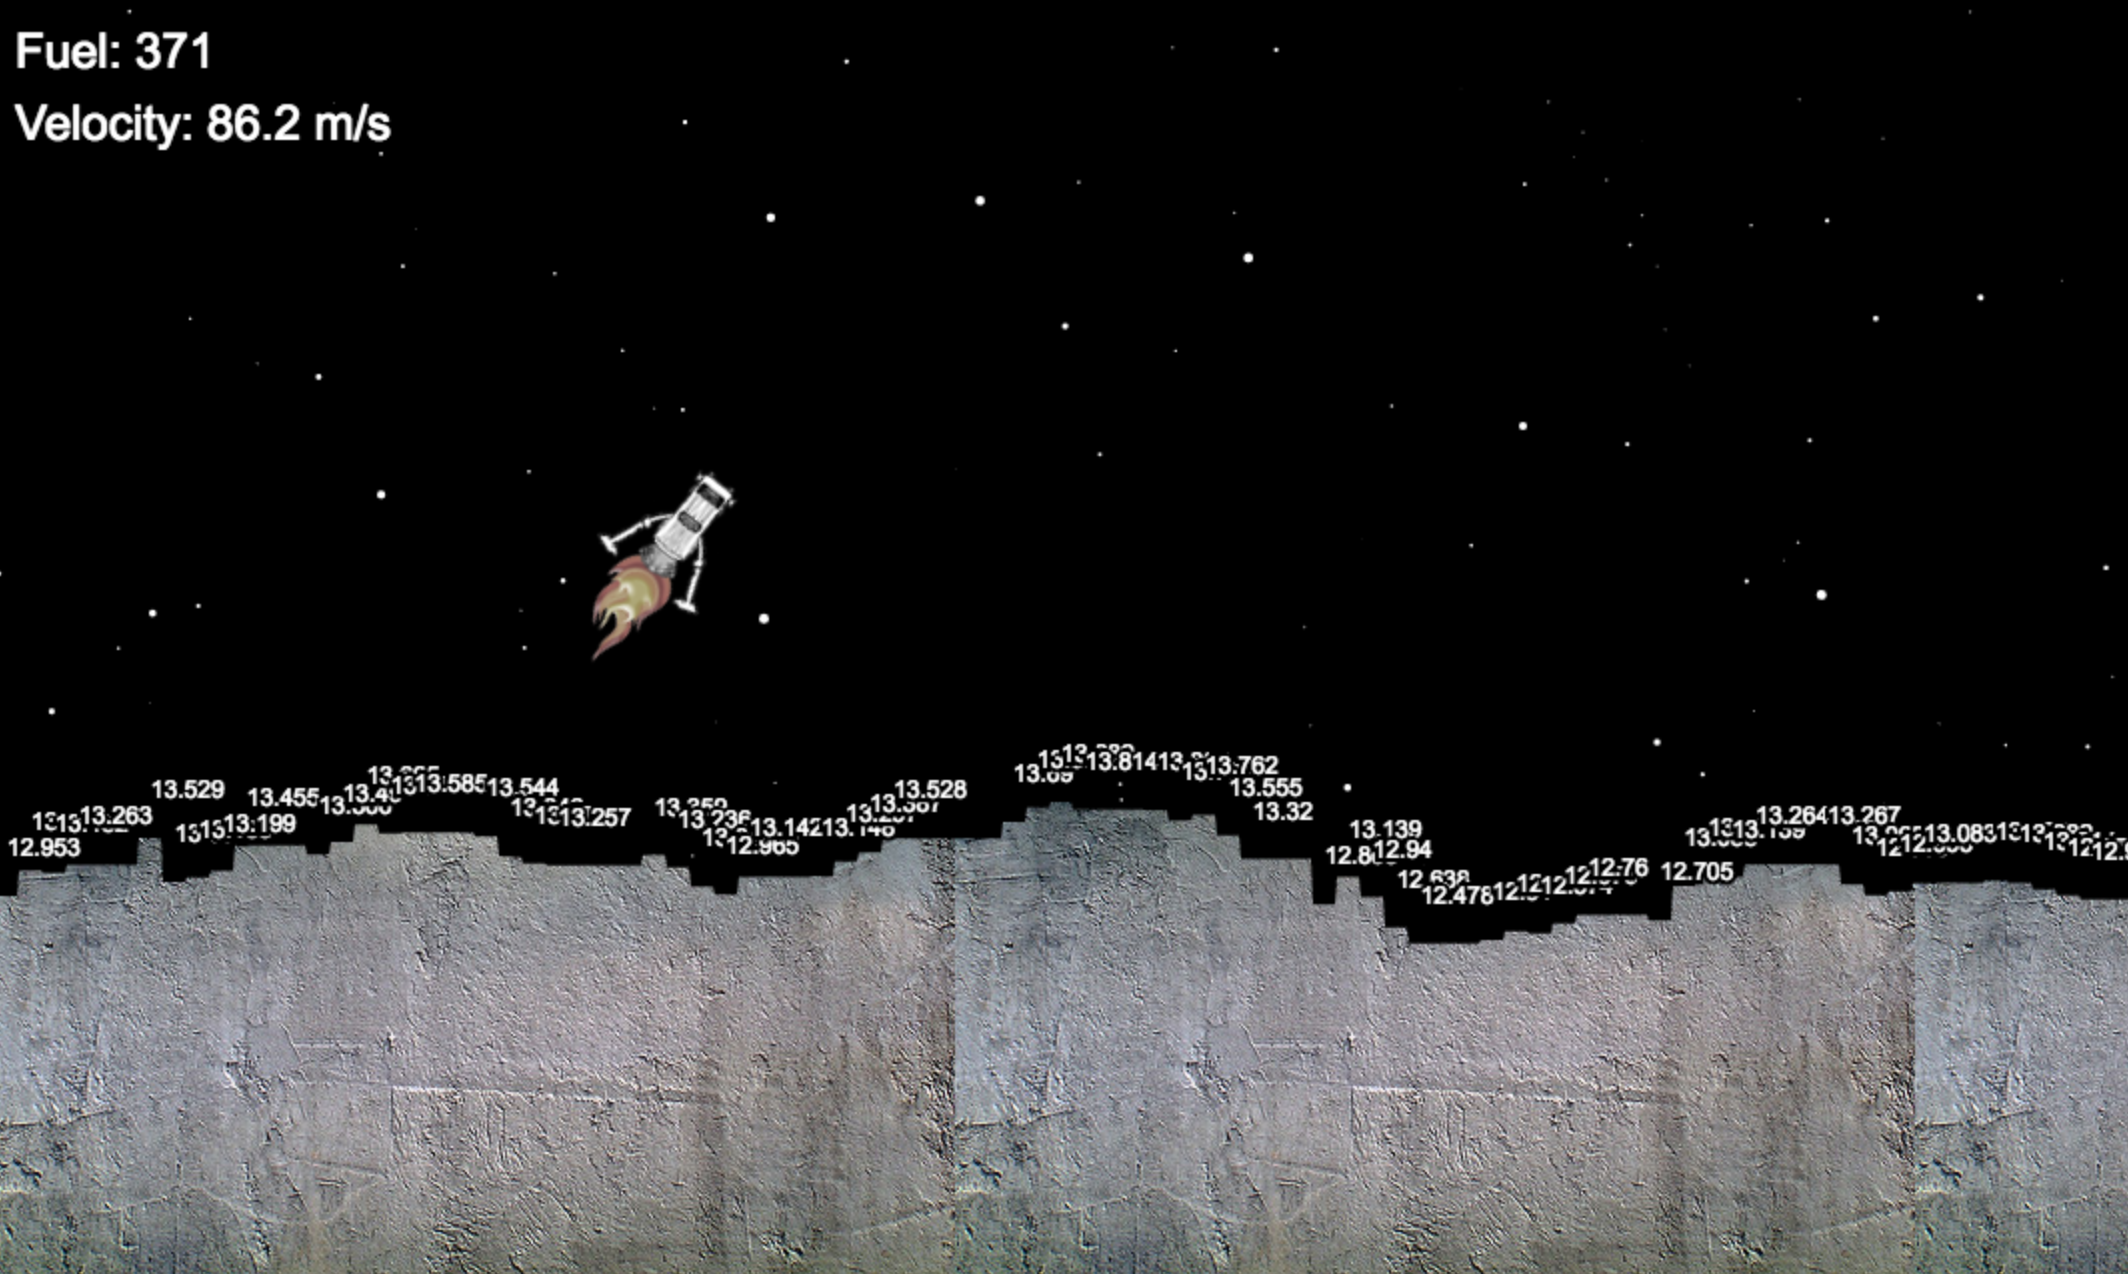
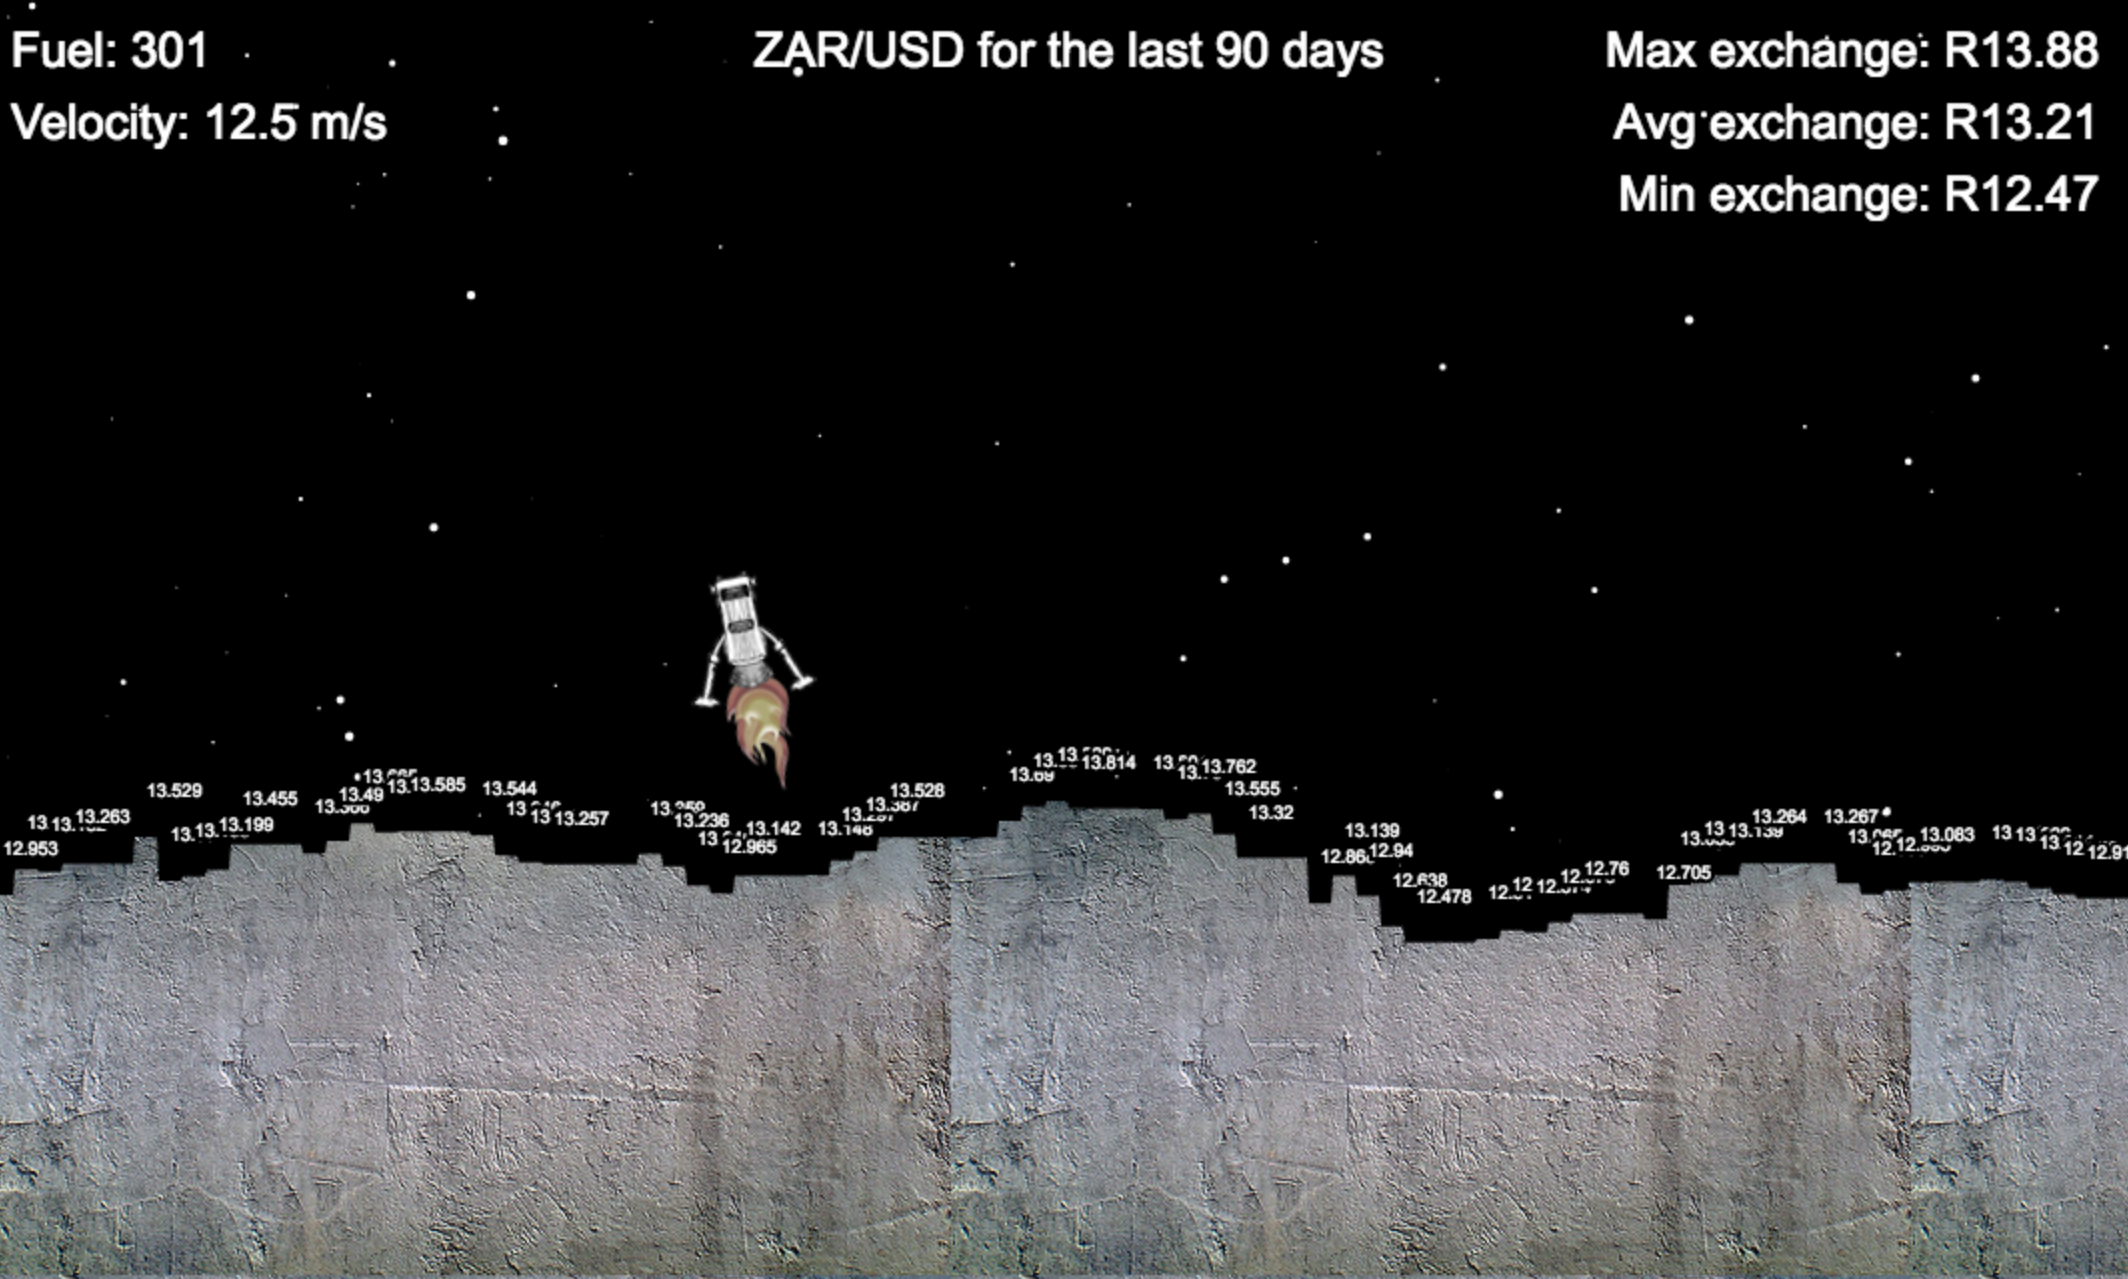
Add heading, tweak currency labels.

diff --git a/js/main.js b/js/main.js
@@ -21,7 +21,7 @@
     let stars = [];
 
     const format = function (avgHeight) {
-        return Math.floor(avgHeight*100)/ 100;
+        return Math.floor(avgHeight * 100) / 100;
     }
 
     function pad(str) {
@@ -123,6 +123,14 @@
         var textMetrics = ctx.measureText(s);
 
         ctx.fillText(s, x - textMetrics.width - size, y);
+    };
+
+    let centerShowAt = function (s, size, x, y) {
+        ctx.font = size + "px Arial";
+        ctx.fillStyle = 'white';
+        var textMetrics = ctx.measureText(s);
+
+        ctx.fillText(s, x - textMetrics.width / 2, y);
     };
 
     let showAllAt = function (s, size, x, y) {
@@ -231,7 +239,7 @@
         for (let x = 0; x < TIME_SPAN; x++) {
             if (last != days[x]) {
                 var calcX = x * TIME_WIDTH + TIME_WIDTH / 2;
-                showAllAt(days[x], 12, calcX, floorHeight(calcX) - 20);
+                showAllAt(days[x], 9, calcX, floorHeight(calcX) - 20);
                 last = days[x];
             }
         }
@@ -282,6 +290,7 @@
 
         ship.inc(diff);
 
+        centerShowAt("ZAR/USD for the last 90 days", 24, canvas.width / 2, 36);
         showAt("Fuel: " + Math.round(ship.fuel), 24, 10, 36);
         showAt("Velocity: " + ship.vel() + " m/s", 24, 10, 72);
 
